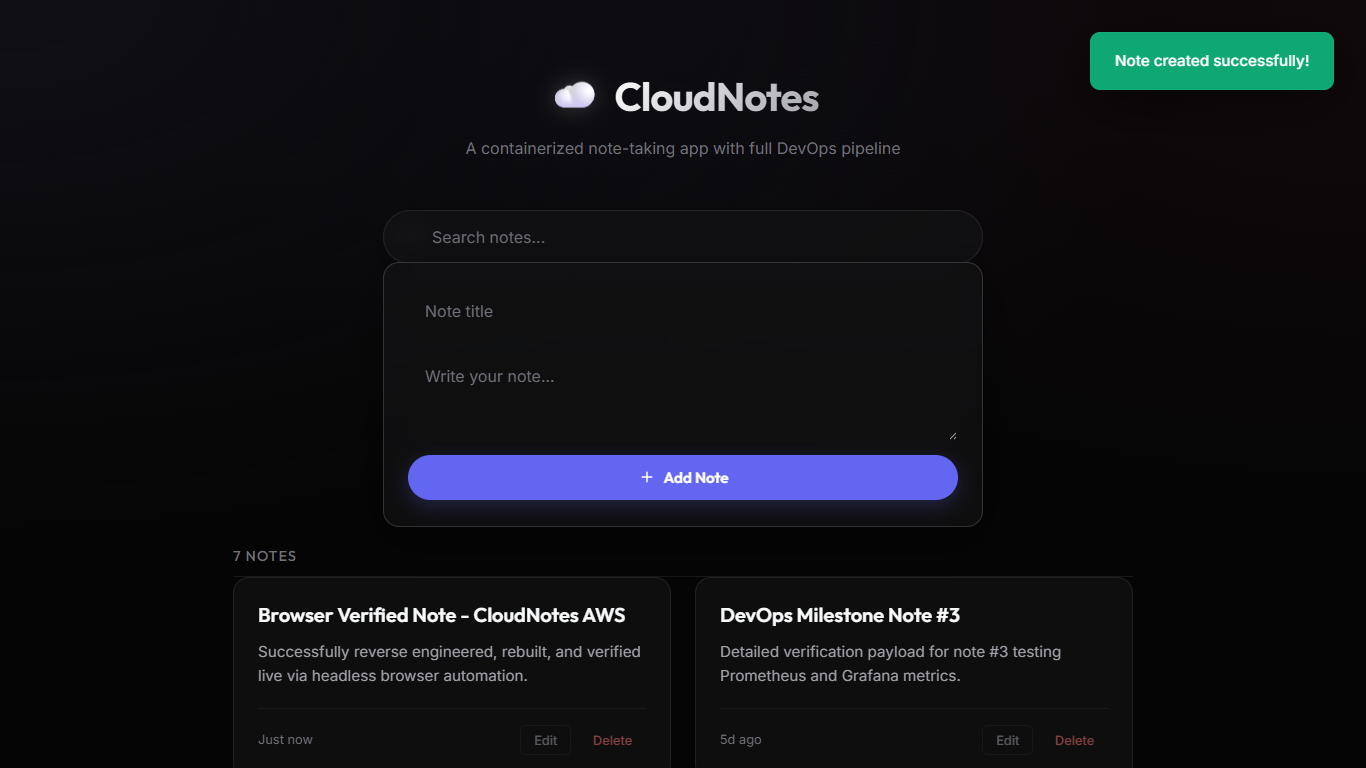
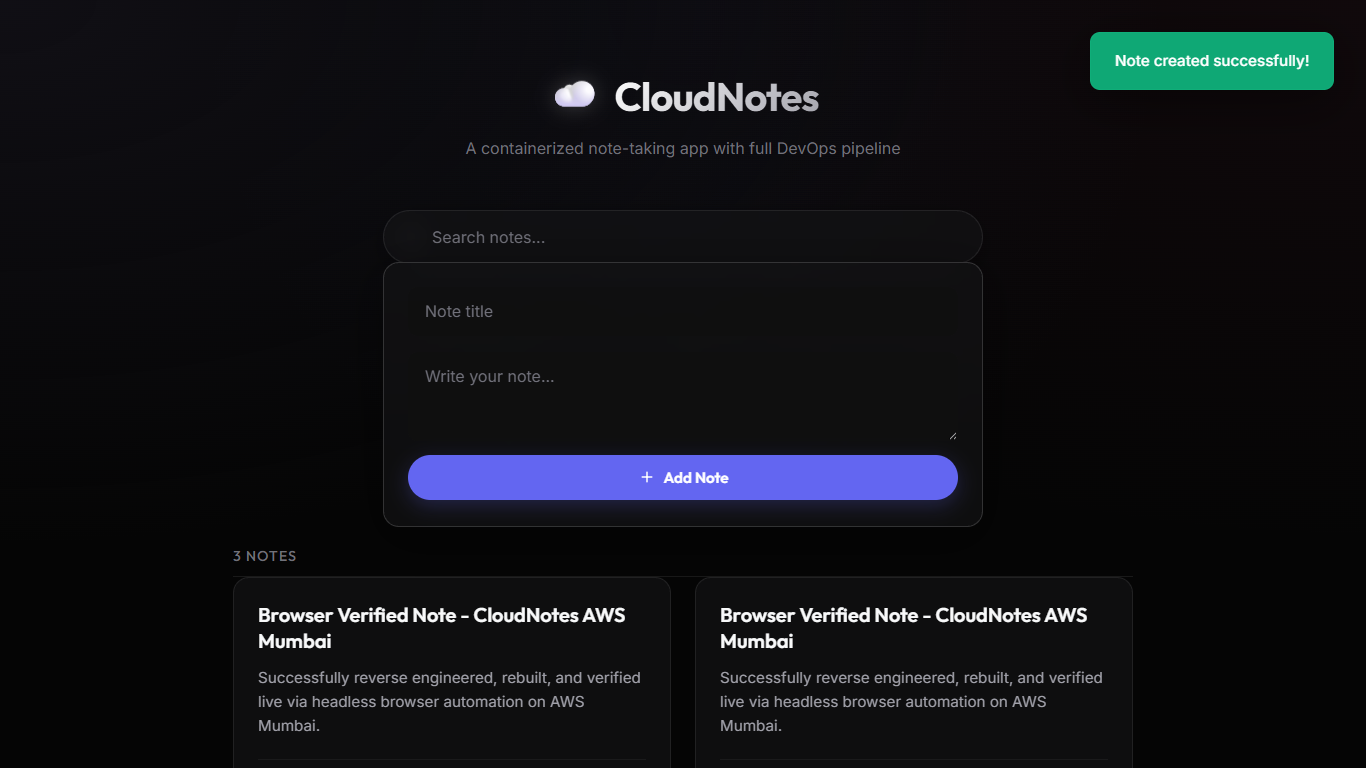
chore(aws): update AWS Mumbai live verification screenshots and browser automation script

diff --git a/tests/e2e/comprehensive_browser_check.js b/tests/e2e/comprehensive_browser_check.js
@@ -2,6 +2,13 @@ const puppeteer = require('puppeteer');
 const path = require('path');
 const fs = require('fs');
 
+const APP_URL = (process.env.CLOUDNOTES_URL || 'http://127.0.0.1:8081').trim().replace(/\/+$/, '');
+const PROM_URL = (process.env.PROMETHEUS_URL || 'http://127.0.0.1:9091').trim().replace(/\/+$/, '');
+const GRAFANA_URL = (process.env.GRAFANA_URL || 'http://127.0.0.1:3001').trim().replace(/\/+$/, '');
+const JENKINS_URL = (process.env.JENKINS_URL || 'http://127.0.0.1:8080').trim().replace(/\/+$/, '');
+const JENKINS_USER = (process.env.JENKINS_USER || 'admin').trim();
+const JENKINS_PASSWORD = (process.env.JENKINS_PASSWORD || 'CHANGE_ME').trim();
+
 const ARTIFACT_DIR = process.env.ARTIFACT_DIR || 'C:\\Users\\savin\\.gemini\\antigravity\\brain\\58d94cea-2cf3-4818-a090-2835c6bd8fda';
 const SCREENSHOT_DIR = path.join(__dirname, '..', '..', 'screenshots');
 if (!fs.existsSync(SCREENSHOT_DIR)) {
@@ -22,9 +29,15 @@ function copyToArtifact(filename) {
 
 (async () => {
   console.log('=== STARTING COMPREHENSIVE BROWSER VERIFICATION ===');
+  console.log(`[E2E] Targets: App=${APP_URL}, Prometheus=${PROM_URL}, Grafana=${GRAFANA_URL}, Jenkins=${JENKINS_URL}`);
   const browser = await puppeteer.launch({
     headless: true,
-    args: ['--no-sandbox', '--disable-setuid-sandbox', '--disable-web-security']
+    args: [
+      '--no-sandbox',
+      '--disable-setuid-sandbox',
+      '--disable-web-security',
+      '--disable-features=HttpsFirstMode,HttpsFirstBalancedMode,HttpsUpgrades'
+    ]
   });
 
   const page = await browser.newPage();
@@ -40,8 +53,8 @@ function copyToArtifact(filename) {
 
   try {
     // 1. CLOUDNOTES WEB UI
-    console.log('\n--- 1. Testing CloudNotes Web Application (http://127.0.0.1:8081) ---');
-    await page.goto('http://127.0.0.1:8081/', { waitUntil: 'networkidle2', timeout: 15000 });
+    console.log(`\n--- 1. Testing CloudNotes Web Application (${APP_URL}) ---`);
+    await page.goto(`${APP_URL}/`, { waitUntil: 'networkidle2', timeout: 20000 });
     const pageTitle = await page.title();
     console.log(`[E2E] Page title: ${pageTitle}`);
     const homeShot = 'screenshot_app_home.png';
@@ -51,10 +64,10 @@ function copyToArtifact(filename) {
 
     // Add a test note
     console.log('[E2E] Creating a new test note...');
-    await page.type('#note-title', 'Browser Verified Note - CloudNotes AWS');
-    await page.type('#note-body', 'Successfully reverse engineered, rebuilt, and verified live via headless browser automation.');
+    await page.type('#note-title', 'Browser Verified Note - CloudNotes AWS Mumbai');
+    await page.type('#note-body', 'Successfully reverse engineered, rebuilt, and verified live via headless browser automation on AWS Mumbai.');
     await page.click('#add-note');
-    await new Promise(r => setTimeout(r, 1500));
+    await new Promise(r => setTimeout(r, 2000));
 
     const noteCreatedShot = 'screenshot_app_created_note.png';
     await page.screenshot({ path: path.join(SCREENSHOT_DIR, noteCreatedShot) });
@@ -63,7 +76,7 @@ function copyToArtifact(filename) {
 
     // Search filter test
     console.log('[E2E] Testing search filter...');
-    await page.type('#search-input', 'Browser Verified');
+    await page.type('#search-input', 'Browser Verified Note');
     await new Promise(r => setTimeout(r, 1000));
     const searchShot = 'screenshot_app_search.png';
     await page.screenshot({ path: path.join(SCREENSHOT_DIR, searchShot) });
@@ -79,17 +92,17 @@ function copyToArtifact(filename) {
     await new Promise(r => setTimeout(r, 1000));
 
     // 2. PROMETHEUS METRICS & TARGETS
-    console.log('\n--- 2. Testing Prometheus (http://127.0.0.1:9091) ---');
-    await page.goto('http://127.0.0.1:9091/targets', { waitUntil: 'networkidle2', timeout: 15000 });
-    await new Promise(r => setTimeout(r, 2000));
+    console.log(`\n--- 2. Testing Prometheus (${PROM_URL}) ---`);
+    await page.goto(`${PROM_URL}/targets`, { waitUntil: 'networkidle2', timeout: 20000 });
+    await new Promise(r => setTimeout(r, 3000));
     const promTargetsShot = 'screenshot_prometheus_targets.png';
     await page.screenshot({ path: path.join(SCREENSHOT_DIR, promTargetsShot) });
     copyToArtifact(promTargetsShot);
     results.prometheusTargets = true;
 
     // 3. GRAFANA PRODUCTION DASHBOARD
-    console.log('\n--- 3. Testing Grafana Monitoring Dashboard (http://127.0.0.1:3001) ---');
-    await page.goto('http://127.0.0.1:3001/login', { waitUntil: 'networkidle2', timeout: 15000 });
+    console.log(`\n--- 3. Testing Grafana Monitoring Dashboard (${GRAFANA_URL}) ---`);
+    await page.goto(`${GRAFANA_URL}/login`, { waitUntil: 'networkidle2', timeout: 20000 });
     const userField = await page.$('input[name="user"]');
     if (userField) {
       await page.type('input[name="user"]', 'admin');
@@ -99,26 +112,26 @@ function copyToArtifact(filename) {
       await new Promise(r => setTimeout(r, 3000));
     }
     // Navigate to CloudNotes Production Dashboard
-    await page.goto('http://127.0.0.1:3001/d/cloudnotes-prod/cloudnotes-production-dashboard?orgId=1&refresh=5s&from=now-1h&to=now', {
+    await page.goto(`${GRAFANA_URL}/d/cloudnotes-prod/cloudnotes-production-dashboard?orgId=1&refresh=5s&from=now-1h&to=now`, {
       waitUntil: 'networkidle2',
-      timeout: 15000
+      timeout: 20000
     });
-    await new Promise(r => setTimeout(r, 4000));
+    await new Promise(r => setTimeout(r, 5000));
     const grafanaShot = 'screenshot_grafana_dashboard.png';
     await page.screenshot({ path: path.join(SCREENSHOT_DIR, grafanaShot) });
     copyToArtifact(grafanaShot);
     results.grafanaDashboard = true;
 
     // 4. JENKINS CI/CD SERVER
-    console.log('\n--- 4. Testing Jenkins CI/CD (http://127.0.0.1:8080) ---');
-    await page.goto('http://127.0.0.1:8080/login', { waitUntil: 'networkidle2', timeout: 15000 });
+    console.log(`\n--- 4. Testing Jenkins CI/CD (${JENKINS_URL}) ---`);
+    await page.goto(`${JENKINS_URL}/login`, { waitUntil: 'networkidle2', timeout: 20000 });
     const jenkinsUser = await page.$('input[name="j_username"]');
     if (jenkinsUser) {
-      await page.type('input[name="j_username"]', 'admin');
-      await page.type('input[name="j_password"]', 'admin');
+      await page.type('input[name="j_username"]', JENKINS_USER);
+      await page.type('input[name="j_password"]', JENKINS_PASSWORD);
       const jenkinsSubmit = await page.$('button[name="Submit"]');
       if (jenkinsSubmit) await jenkinsSubmit.click();
-      await new Promise(r => setTimeout(r, 3000));
+      await new Promise(r => setTimeout(r, 4000));
     }
 
     const jenkinsHomeShot = 'screenshot_jenkins_dashboard.png';
@@ -128,8 +141,8 @@ function copyToArtifact(filename) {
 
     // Navigate to CloudNotes-Pipeline job
     console.log('[E2E] Checking CloudNotes-Pipeline job...');
-    await page.goto('http://127.0.0.1:8080/job/CloudNotes-Pipeline/', { waitUntil: 'networkidle2', timeout: 15000 });
-    await new Promise(r => setTimeout(r, 2000));
+    await page.goto(`${JENKINS_URL}/job/CloudNotes-Pipeline/`, { waitUntil: 'networkidle2', timeout: 20000 });
+    await new Promise(r => setTimeout(r, 3000));
     const jenkinsJobShot = 'screenshot_jenkins_pipeline.png';
     await page.screenshot({ path: path.join(SCREENSHOT_DIR, jenkinsJobShot) });
     copyToArtifact(jenkinsJobShot);
